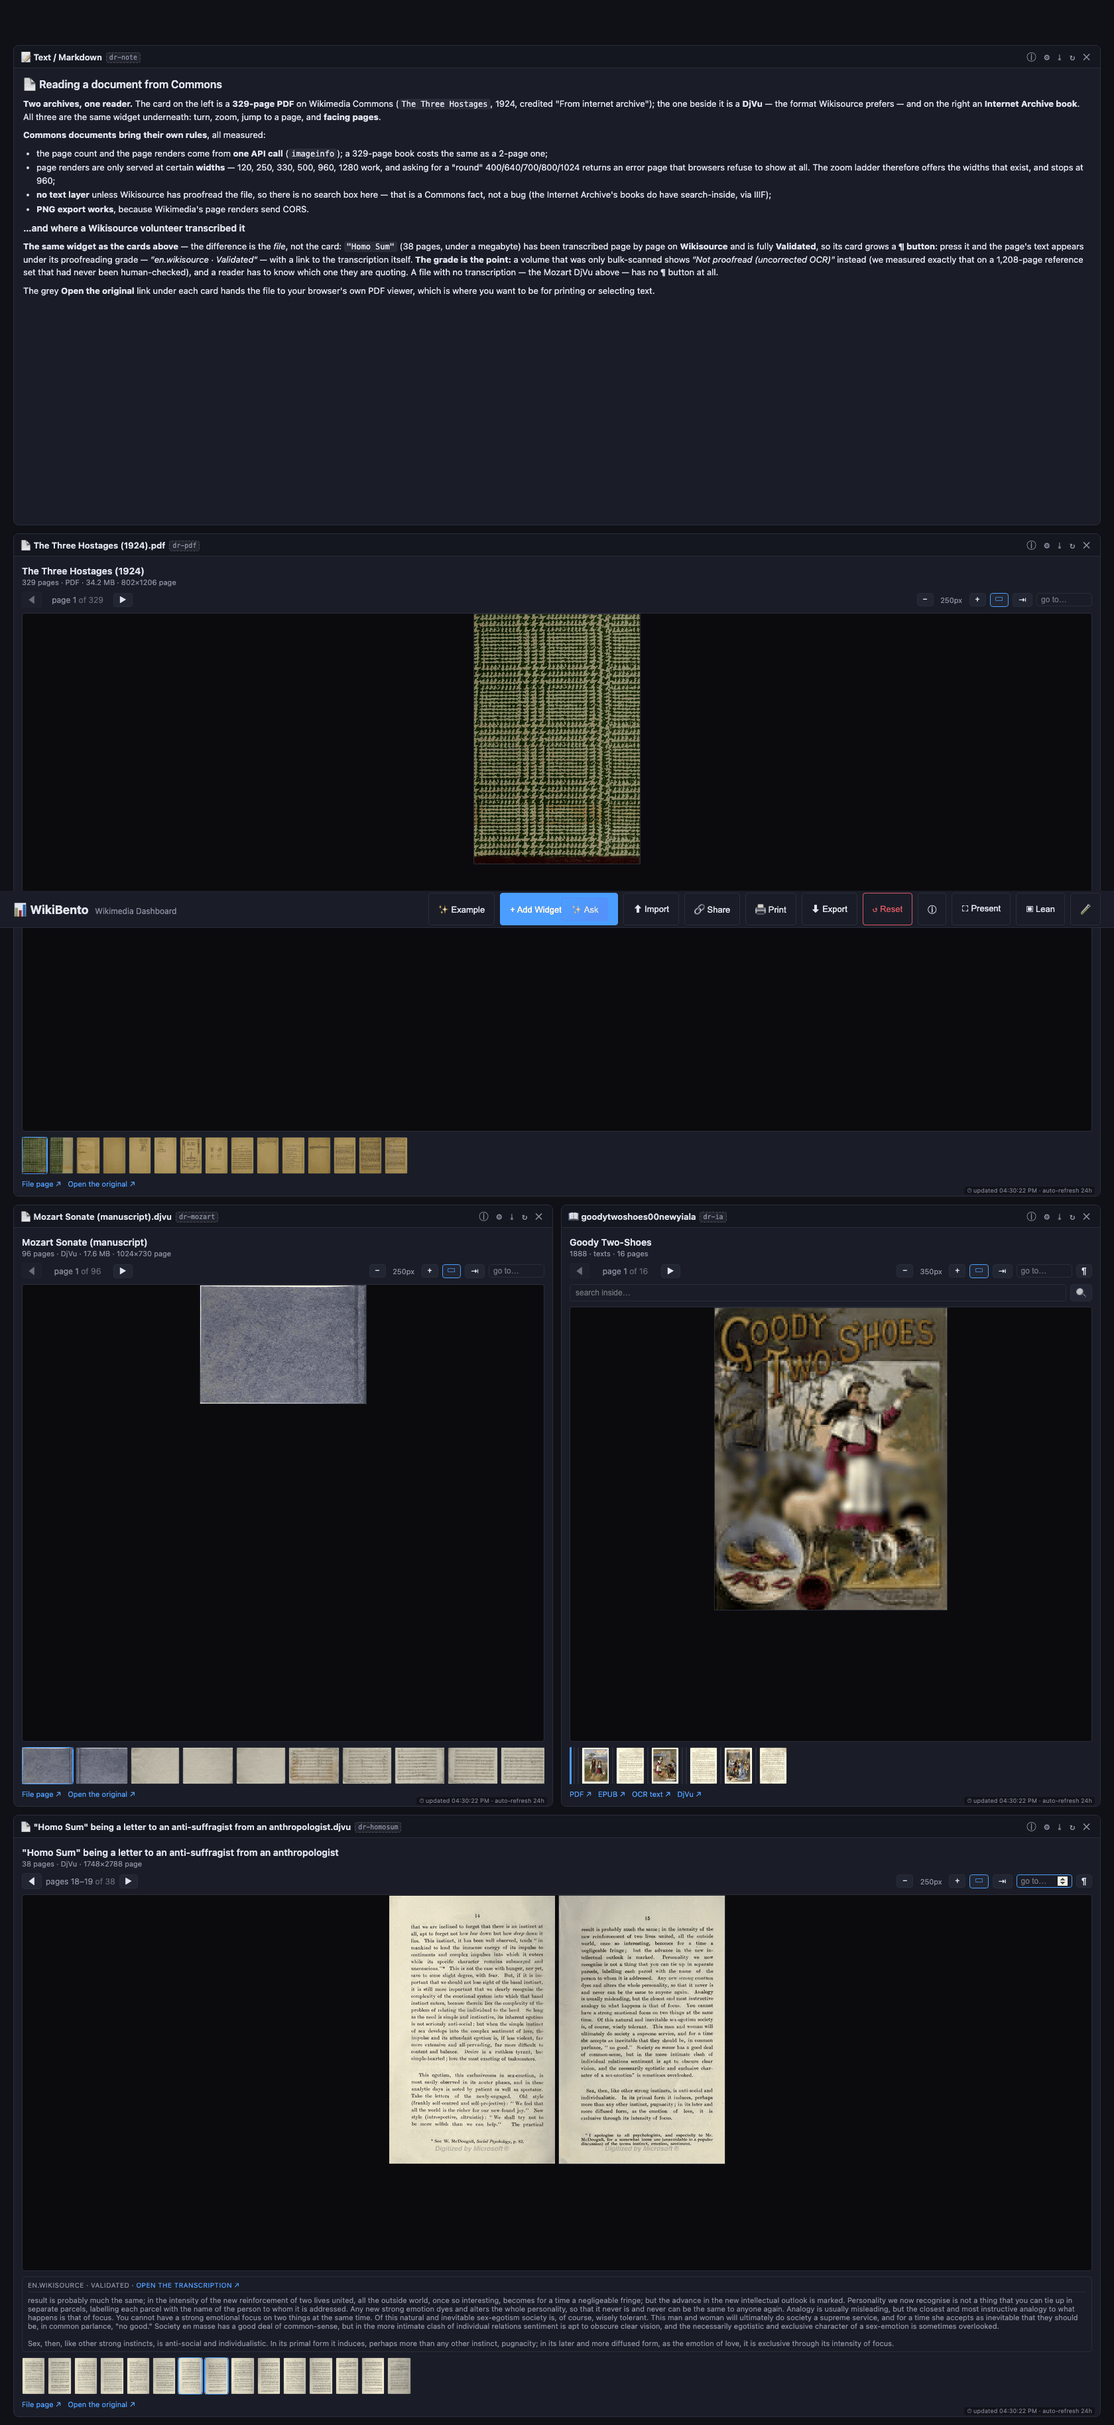
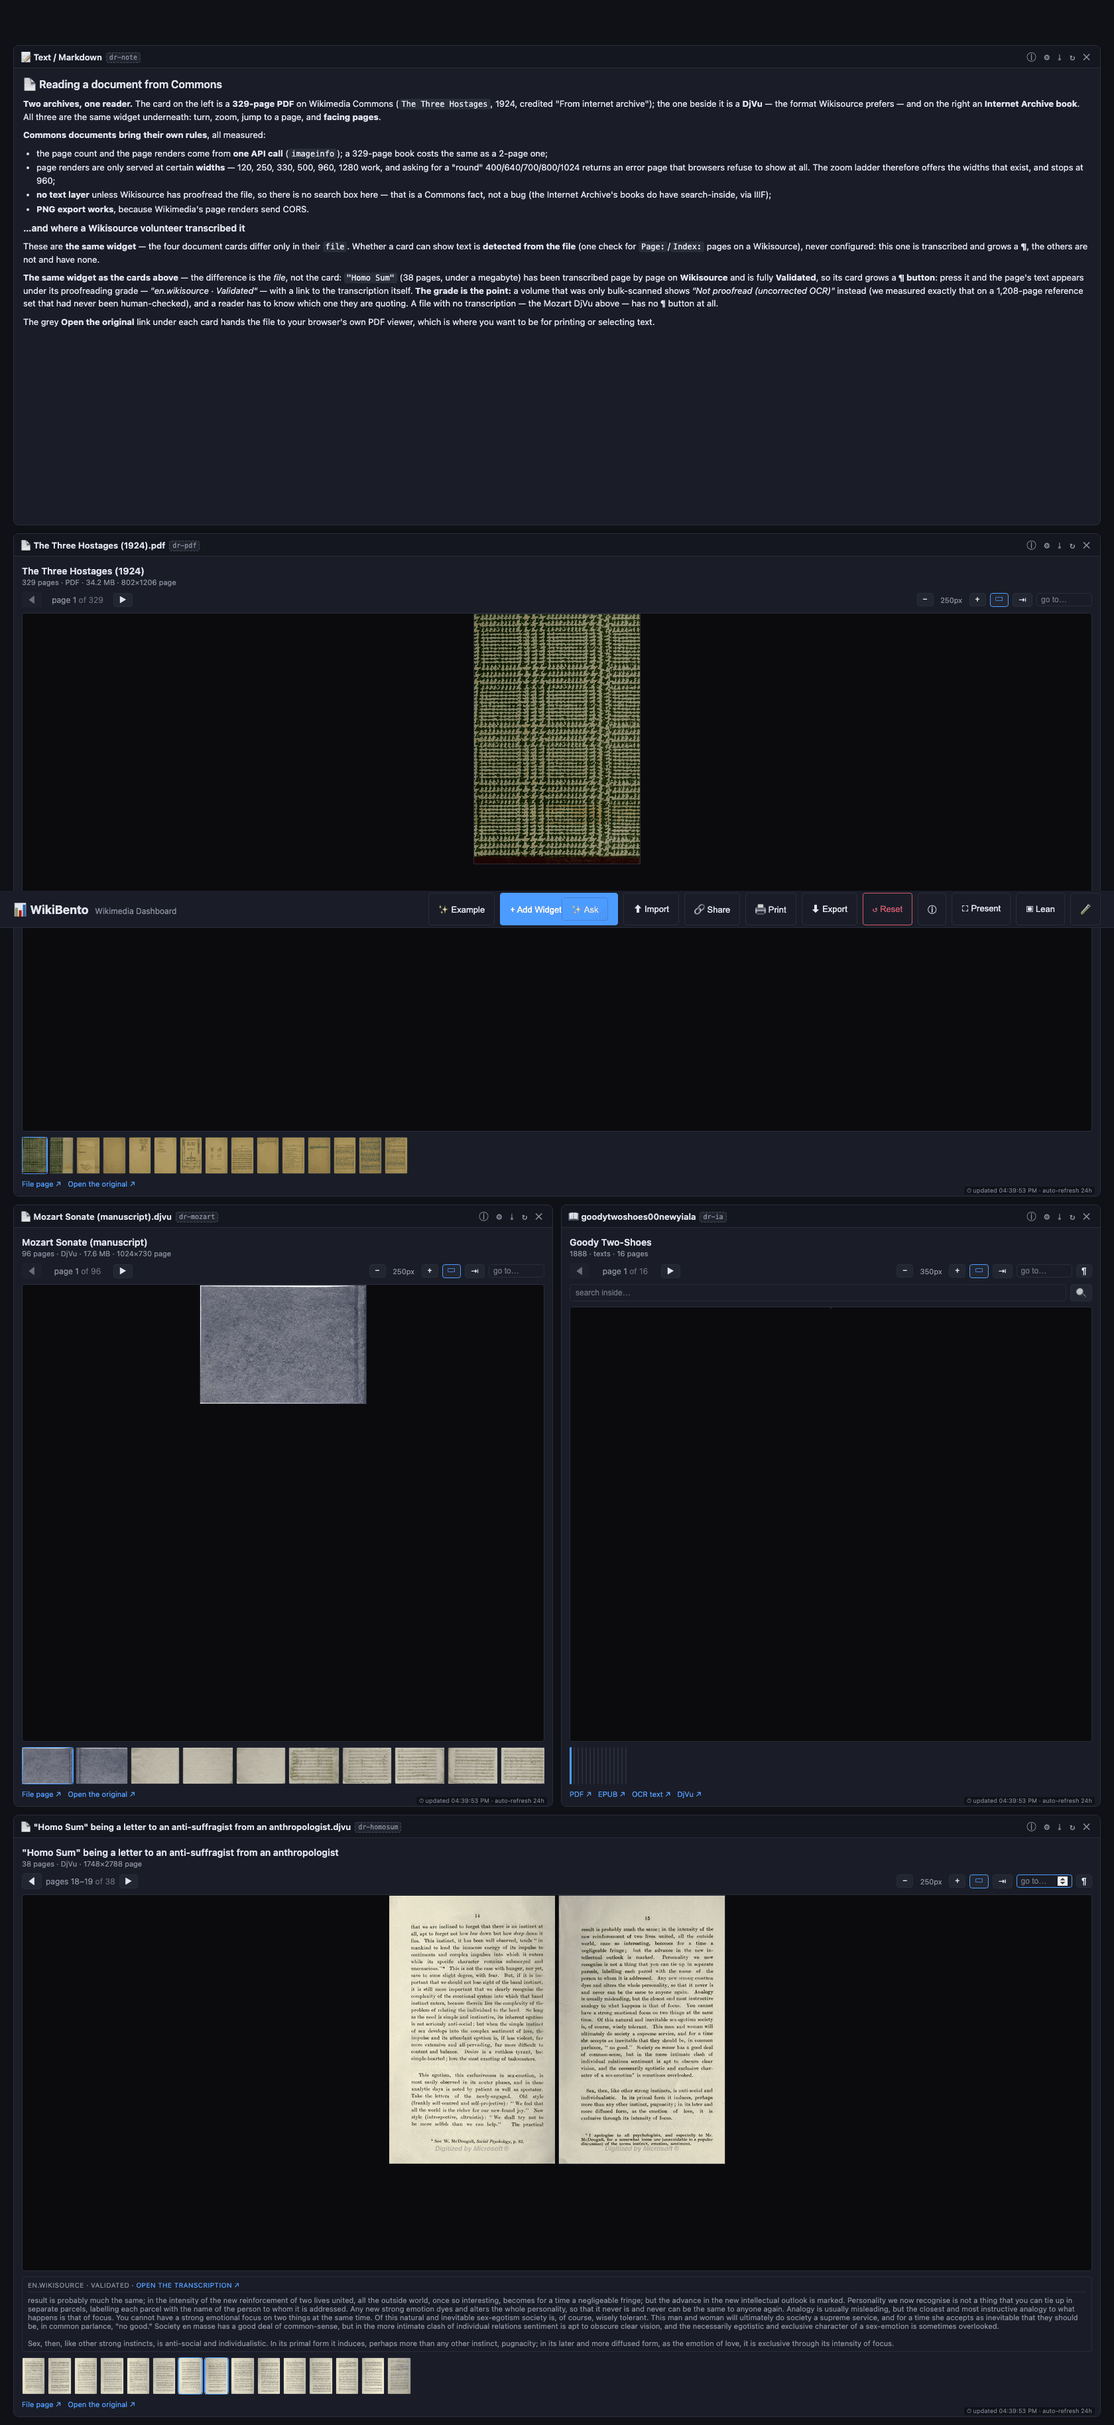
Make the transcription panel a sticky toggle, open from the start
Andrew's two notes, which are the same fix: the transcription should be showing when the card loads, and it
should not vanish when he turns the page and have to be re-opened with ¶.

WHAT CHANGED (PagedViewer, so it applies to every source):
  · the panel is a TOGGLE with state, not a one-shot fetch. `¶` opens and closes it (aria-pressed says which),
    and its tooltip changes to match;
  · it opens BY DEFAULT when its source supplies text and the card asks for that (textOpenDefault); the Commons
    reader asks, the IA book does not — an IA book's ¶ is a bonus (the page's own OCR) rather than the reason to
    open the card, and the panel costs the page its room;
  · it is STICKY: turning a page no longer clears it. An effect follows the reader, reloading the text for
    whichever page is in view, with a sequence guard so a slow response cannot overwrite a newer one. A panel
    that stayed open showing the PREVIOUS page's words would be worse than one that closed;
  · while it is open it always says something — "Loading the transcription…" rather than a blank frame, which
    is what a reader sees in the gap and what an assertion catching innerText at the wrong moment sees too;
  · ⚙ gains a `textPanel` setting on the document reader ("Show it from the start" / "Hidden until I press ¶",
    default the former): the board sets the default, the button overrides it, as everywhere else here.
[…]

Changed region(s): [[0.619, 0.5301, 0.8667, 0.686], [0.031, 0.0935, 0.9595, 0.1247], [0.5262, 0.7172, 0.7119, 0.7484]]

diff --git a/src/widgets/PagedViewer.jsx b/src/widgets/PagedViewer.jsx
@@ -28,7 +28,7 @@ import {
  *     URL is what 400'd for a real PDF;
  *   · a right-to-left book shows the LATER leaf on the left, and the counter still reads "pages 4–5".
  */
-export default function PagedViewer({ data, onSearch = null, onPageText = null }) {
+export default function PagedViewer({ data, onSearch = null, onPageText = null, textOpenDefault = false }) {
   const pages = (data && data.pages) || [];
   const count = pages.length;
   const labels = useMemo(() => pages.map((p, i) => p.label || String(i + 1)), [pages]);
@@ -52,8 +52,14 @@ export default function PagedViewer({ data, onSearch = null, onPageText = null }
   const [sel, setSel] = useState(null);
   const [busy, setBusy] = useState(false);
   const [problem, setProblem] = useState('');
+  // The text panel is a TOGGLE, not a one-shot: it opens (by default for a source whose text is the point,
+  // like a Wikisource transcription), stays open while the reader turns pages, and reloads itself for
+  // whichever page is in view. A panel that vanished on every turn made the reader click ¶ again and again,
+  // and a panel that stayed open with the PREVIOUS page's words would be worse than either.
+  const [textOpen, setTextOpen] = useState(Boolean(onPageText && textOpenDefault));
   const [text, setText] = useState(null);
   const [textBusy, setTextBusy] = useState(false);
+  const textSeq = useRef(0);
   const stageRef = useRef(null);
 
   // A config edit changes the default; re-apply it rather than leaving the previous choice in place.
@@ -81,8 +87,10 @@ export default function PagedViewer({ data, onSearch = null, onPageText = null }
   const w = leafWidth(ladder[Math.min(wIdx, ladder.length - 1)], inSpread);
 
   const go = (index) => {
-    setSel(null); setText(null);
+    setSel(null);
     setPage(Math.max(0, Math.min(count - 1, index)));
+    // deliberately NOT clearing the text: the panel is sticky, and the effect below refetches for the page
+    // that arrives.
   };
   const step = (delta) => {
     const next = pairs[Math.max(0, Math.min(pairs.length - 1, spreadIdx + delta))] || [];
@@ -101,20 +109,39 @@ export default function PagedViewer({ data, onSearch = null, onPageText = null }
     } finally { setBusy(false); }
   };
 
-  const toggleText = async () => {
-    if (text !== null) { setText(null); return; }
-    // The guard is "is there a source for this?", not "does this page carry a IIIF annotation page" — that
-    // field belongs to one source's shape, and requiring it silently refused every Commons document.
-    if (!onPageText || !current) { setProblem('No text source for this document'); return; }
-    setTextBusy(true); setProblem('');
-    try {
-      const got = await onPageText(current, pages);
-      // A source may return just words, or words with provenance ({text, note, href}) — where the text came
-      // from and how trustworthy it is. Both render; only the panel's header differs.
-      setText(typeof got === 'string' ? { text: got, note: '', href: '' } : (got || { text: '', note: '', href: '' }));
-    } catch (err) { setProblem((err && err.message) || 'No text for this page'); }
-    finally { setTextBusy(false); }
-  };
+  const toggleText = () => setTextOpen((v) => !v);
+
+  // The callback is read through a ref: the wrappers build it inline, so depending on its identity would
+  // refetch on every render instead of on every page.
+  const onPageTextRef = useRef(onPageText);
+  useEffect(() => { onPageTextRef.current = onPageText; }, [onPageText]);
+
+  // Follow the reader: when the panel is open, load the page in view — and reload it when the page changes.
+  // The sequence guard drops a slow response that arrives after a newer one.
+  useEffect(() => {
+    const fetcher = onPageTextRef.current;
+    if (!textOpen || !fetcher || !pages[safe]) return undefined;
+    const seq = (textSeq.current += 1);
+    let alive = true;
+    setTextBusy(true);
+    setProblem('');
+    fetcher(pages[safe], pages)
+      .then((got) => {
+        // A source may return just words, or words with provenance ({text, note, href}): where the text came
+        // from and how trustworthy it is. Both render; only the panel's header differs.
+        if (alive && seq === textSeq.current) {
+          setText(typeof got === 'string' ? { text: got, note: '', href: '' } : (got || { text: '', note: '', href: '' }));
+        }
+      })
+      .catch((err) => {
+        if (alive && seq === textSeq.current) {
+          setText({ text: '', note: '', href: '' });
+          setProblem((err && err.message) || 'No text for this page');
+        }
+      })
+      .finally(() => { if (alive && seq === textSeq.current) setTextBusy(false); });
+    return () => { alive = false; };
+  }, [textOpen, safe, pages]);
 
   const links = (data && data.links) || [];
   const head = (
@@ -185,7 +212,13 @@ export default function PagedViewer({ data, onSearch = null, onPageText = null }
           </form>
         )}
         {caps.text && (
-          <button data-pv="text" className="pv-btn" onClick={toggleText} disabled={textBusy} title="Show this page's text">¶</button>
+          <button
+            data-pv="text"
+            className="pv-btn"
+            onClick={toggleText}
+            aria-pressed={textOpen}
+            title={textOpen ? "Hide the transcription, and let the page have the room" : 'Show this page’s transcription'}
+          >¶</button>
         )}
       </div>
       {onSearch && caps.search !== false && (
@@ -234,15 +267,18 @@ export default function PagedViewer({ data, onSearch = null, onPageText = null }
           ))}
         </div>
       )}
-      {text !== null && (
+      {textOpen && onPageText && (
         <div className="pv-text">
-          {text.note && (
+          {/* Open and empty is not a state to paint: say what is happening instead. (A blank frame is what
+              an assertion catching `innerText` at the wrong moment sees, and it is also what a reader sees.) */}
+          {!text && <div className="pv-text-body">{textBusy ? 'Loading the transcription…' : 'Reading…'}</div>}
+          {text && text.note && (
             <div className="pv-text-note">
               {text.note}
               {text.href && <> · <a href={text.href} target="_blank" rel="noreferrer">open the transcription ↗</a></>}
             </div>
           )}
-          <div className="pv-text-body">{text.text || '(this page has no text)'}</div>
+          {text && <div className="pv-text-body">{text.text || '(this page has no text)'}</div>}
         </div>
       )}
       <div className="pv-strip">

diff --git a/src/widgets/index.js b/src/widgets/index.js
@@ -1767,7 +1767,7 @@ export const WIDGET_TYPES = {
       ], hint: 'A board can open a book in spread mode; the ▭ button on the card still overrides it for the reader (the board sets the default, the reader decides).' },
     ],
     fetch: (config) => fetchIaBook(config.identifier),
-    transform: (data, config) => ({ ...data, spread: (config && config.spread) || 'auto' }),
+    transform: (data, config) => ({ ...data, spread: (config && config.spread) || 'auto', textPanel: (config && config.textPanel) || 'on' }),
     // Emits the item URL, the same link the card title opens (Emitter Contract).
     outputs: { kind: 'value' },
     emit: (data) => data.detailsUrl,
@@ -1786,6 +1786,7 @@ export const WIDGET_TYPES = {
       file: 'File:The Three Hostages (1924).pdf',
       project: 'commons.wikimedia',
       spread: 'auto',        // 'auto' (by card width) | 'on' (facing pages) | 'off'
+      textPanel: 'on',       // 'on' = show the Wikisource transcription from load; 'off' = only via ¶
       refreshSeconds: 86400,
     },
     renderer: 'DocumentReaderCard',
@@ -1798,6 +1799,10 @@ export const WIDGET_TYPES = {
         { value: 'on', label: 'Two facing pages' },
         { value: 'off', label: 'One page at a time' },
       ], hint: 'A board can open a document in spread mode; the ▭ button on the card still overrides it for the reader.' },
+      { key: 'textPanel', label: 'Transcription', type: 'select', options: [
+        { value: 'on', label: 'Show it from the start (and keep it open as you turn pages)' },
+        { value: 'off', label: 'Hidden until I press ¶' },
+      ], hint: 'Applies where Wikisource has transcribed the file — the card detects that, and a file with no transcription never shows the panel.' },
     ],
     fetch: (config) => fetchDocumentPages(config.file, config.project),
     transform: (data, config) => ({ ...data, spread: (config && config.spread) || 'auto' }),

diff --git a/src/widgets/WidgetFrame.jsx b/src/widgets/WidgetFrame.jsx
@@ -2275,6 +2275,9 @@ function IaBookCard({ data }) {
       onSearch={data && data.hasSearch
         ? (query, pages) => fetchIaBookSearch(data.searchService, query).then((raw) => searchHits(raw, pages))
         : null}
+      // Opt-in here, unlike the Commons reader: an IA book's ¶ is a bonus (the page's own OCR), not the
+      // reason to open the card, and the panel costs the page its room.
+      textOpenDefault={false}
       onPageText={(page) => fetchIaBookPageText(page.annotationPage)}
     />
   );
@@ -2294,6 +2297,9 @@ function DocumentReaderCard({ data }) {
   return (
     <PagedViewer
       data={data}
+      // A transcription is the reason this card has a ¶ at all, so the panel is OPEN on load and stays open
+      // as the reader turns pages (the board can turn that off with ⚙ Reading the transcription).
+      textOpenDefault={transcript ? data.textPanel !== 'off' : false}
       // The text layer exists only where Wikisource transcribed the file: one call per page gives the
       // words AND their proofreading grade, and the grade travels with the text because "Not proofread"
       // means uncorrected OCR — the reader has to know that to trust it correctly.

diff --git a/docs/WIDGET-CATALOG.md b/docs/WIDGET-CATALOG.md
@@ -84,5 +84,5 @@ Back to the [README](../README.md).
 |---|---|---|---|
 | **IA Item** | 📦 | `archive.org/metadata` + `be-api…/views` (CORS `*`, no key) | An **Internet Archive item** by identifier — title, creator, year, collection, file count and size, plus all-time / 30-day / 7-day **views** (IA engagement, updated daily — *not* Wikimedia pageviews), thumbnail and a link to its details page. Emits the item URL for downstream use (e.g. a **QR Code** card) |
 | **IA Book** | 📖 | `iiif.archive.org` — Presentation v3 manifest, Image API v3, Content Search (CORS ✓, no key) | A **scanned Internet Archive book**: turn, zoom, jump from a thumbnail strip, **search inside it** (each hit names its page and shows the matched words boxed on the page), read that page's OCR text, open the PDF/EPUB/OCR — and read it as **facing pages** — set per board (⚙ *Reading mode*: auto / two pages / one page) or when the card is wide enough, with **right-to-left** handled for Arabic/Hebrew/Yiddish scans. Page count comes from the manifest's canvases, not the item metadata |
-| **Document Reader** | 📄 | `imageinfo` on any wiki — pagecount + a page-N render template (one call; CORS ✓, no key) | A **PDF or DjVu** read page by page from the wiki that hosts it: turn, zoom (at the widths the server actually serves), jump to a page, **facing pages**, the file's credit, and a link to the original. Refuses a non-document politely. Where **Wikisource** has transcribed the file, a **¶ button** shows each page's text **with its proofreading grade** (this is bulk-OCR territory — the grade is the point) and a link to the transcription |
+| **Document Reader** | 📄 | `imageinfo` on any wiki — pagecount + a page-N render template (one call; CORS ✓, no key) | A **PDF or DjVu** read page by page from the wiki that hosts it: turn, zoom (at the widths the server actually serves), jump to a page, **facing pages**, the file's credit, and a link to the original. Refuses a non-document politely. Where **Wikisource** has transcribed the file, the page's text shows **from the start** — with its **proofreading grade** (this is bulk-OCR territory: the grade is the point) and a link to the transcription. The panel **follows you as you turn pages**; **¶** hides it, and ⚙ decides whether it starts open |
 | **Wayback Snapshot Gallery** ⚠alpha | 🕰 | Wayback availability + CDX/timemap (server batch) | Screenshot tiles of a website at chosen dates — closest capture per date (within tolerance), iframe-embedded; experimental — depends on Wayback backend health, failed lookups retry on refresh |

diff --git a/docs/DOCUMENT-VIEWER.md b/docs/DOCUMENT-VIEWER.md
@@ -240,6 +240,13 @@ wikitext together; `prop=globalusage` says whether a `Page:`/`Index:` usage exis
 (ns 104/106 — being *linked* from a Wikisource article does not count, and neither does a Wikidata item).
 A file with no transcription simply has no ¶ button; the Mozart DjVu is the negative case in the tests.
 
+**The panel is a sticky toggle** (Andrew's follow-up, 2026-09-15): it opens with the card rather than waiting
+for a click, and it **follows the reader** — turning a page reloads the text for the page in view instead of
+clearing it. Those are one feature, not two: a panel that closed on every turn had to be reopened, and a panel
+that stayed open with the previous page's words would be worse than either. `⚙ Transcription` decides whether
+it starts open (the board sets the default; **¶** overrides it), and the IA book keeps its ¶ opt-in — there the
+text is a bonus rather than the point of the card, and the panel costs the page its room.
+
 **Three bugs this found, all in code that had just been written:**
 - the viewer's text guard required `annotationPage` — a **IIIF-specific** field — so every Commons document
   was refused before its own fetcher ran. A guard written against one source's shape silently excluded the

diff --git a/docs/VERIFIED-WORKING.md b/docs/VERIFIED-WORKING.md
@@ -324,7 +324,11 @@ Back to the [README](../README.md).
   as facing pages; `/anne-frank-mlk-demo.json` still draws 21 timeline dots; `/api/resolve` and `/api/proxy`
   both 200; the front door loads a board; **no uncaught JS errors**.
 
-- ✅ **2026-09-15 — the Wikisource text layer (v1.1)** (the fixture is deliberately small — a **38-page, 0.89 MB**
+- ✅ **2026-09-15 — the Wikisource text layer (v1.1), made sticky** (`npm run smoke:document`, **37**
+  assertions): the transcription is **showing the moment the card loads**, with ¶ already pressed, and an
+  untranscribed card has no panel at all; moving to page 19 **updates it without a click** (1,458 characters,
+  "EN.WIKISOURCE · VALIDATED"); one more turn keeps it open with **different words** (1,598 characters); ¶
+  closes it and pressing it again restores the current page. The fixture is deliberately small — a **38-page, 0.89 MB**
   DjVu, not the 285 MB reference set the traps were found on): a work with a transcription reports "page 1 of
   38" and grows a **¶ button**; a DjVu with **no** transcription has none; pressing it on page 19 shows
   **1,458 characters** of readable text under **"en.wikisource · Validated"**, linking to

diff --git a/HANDOFF.md b/HANDOFF.md
@@ -34,7 +34,7 @@ Feature-complete for v1 and deployed.
 | front door for demos | `?config=/demos.json` (the hub) |
 | entry board | ✨ Example (3 starter widgets), or `?config=/article-switcher-demo.json` |
 | pending deploy | none — production serves this branch's tip (verified live: the text layer, the 42-card catalog and every demo board) |
-| newest capabilities | 📄 **Document Reader** (Commons PDFs and DjVu, sharing one viewer with 📖 IA Book, facing pages both, and a **Wikisource text panel with its proofreading grade** where a transcription exists) · 🎬 archive.org media by URL · ⤓ PNG export for CORS images · 🕰 Lifeline timelines |
+| newest capabilities | 📄 **Document Reader** (Commons PDFs and DjVu, sharing one viewer with 📖 IA Book; facing pages; a **Wikisource transcription that shows from the start and follows you as you turn pages**) · 🎬 archive.org media by URL · ⤓ PNG export for CORS images · 🕰 Lifeline timelines |
 
 **Every widget type is in the showcase catalog** — no exceptions, and
 `scripts/docs-facts.mjs` keeps it that way (it fails the build if a registered
